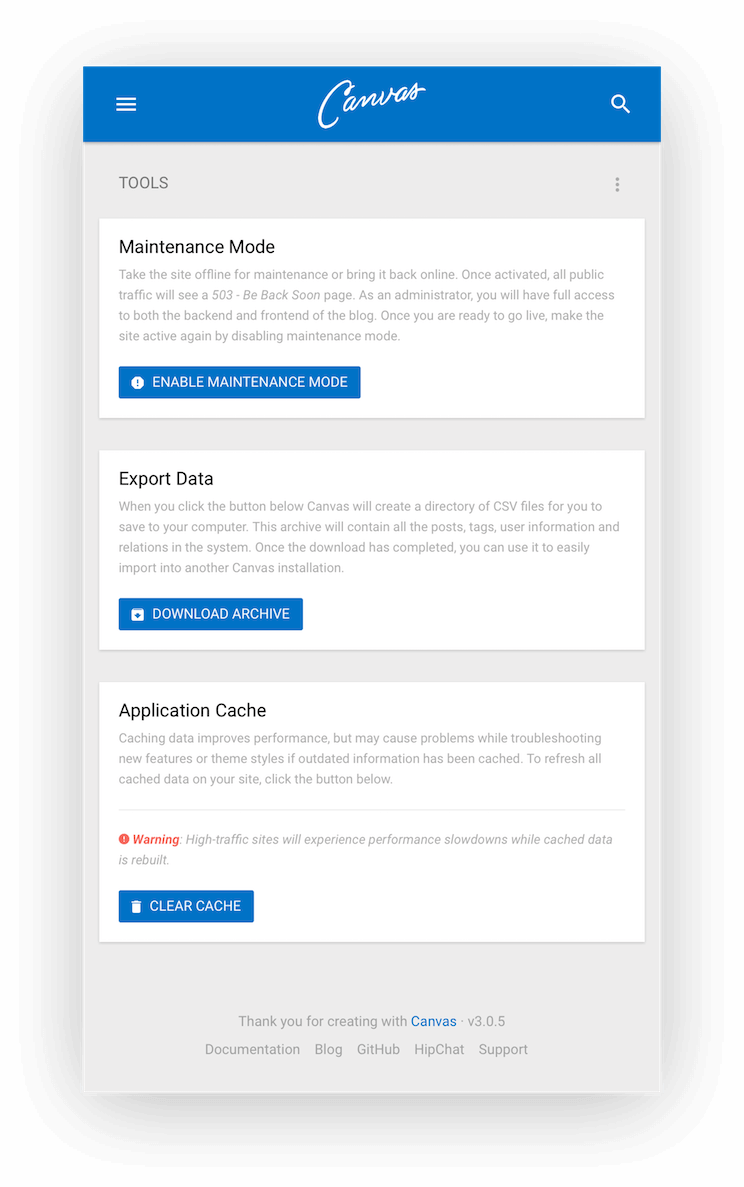
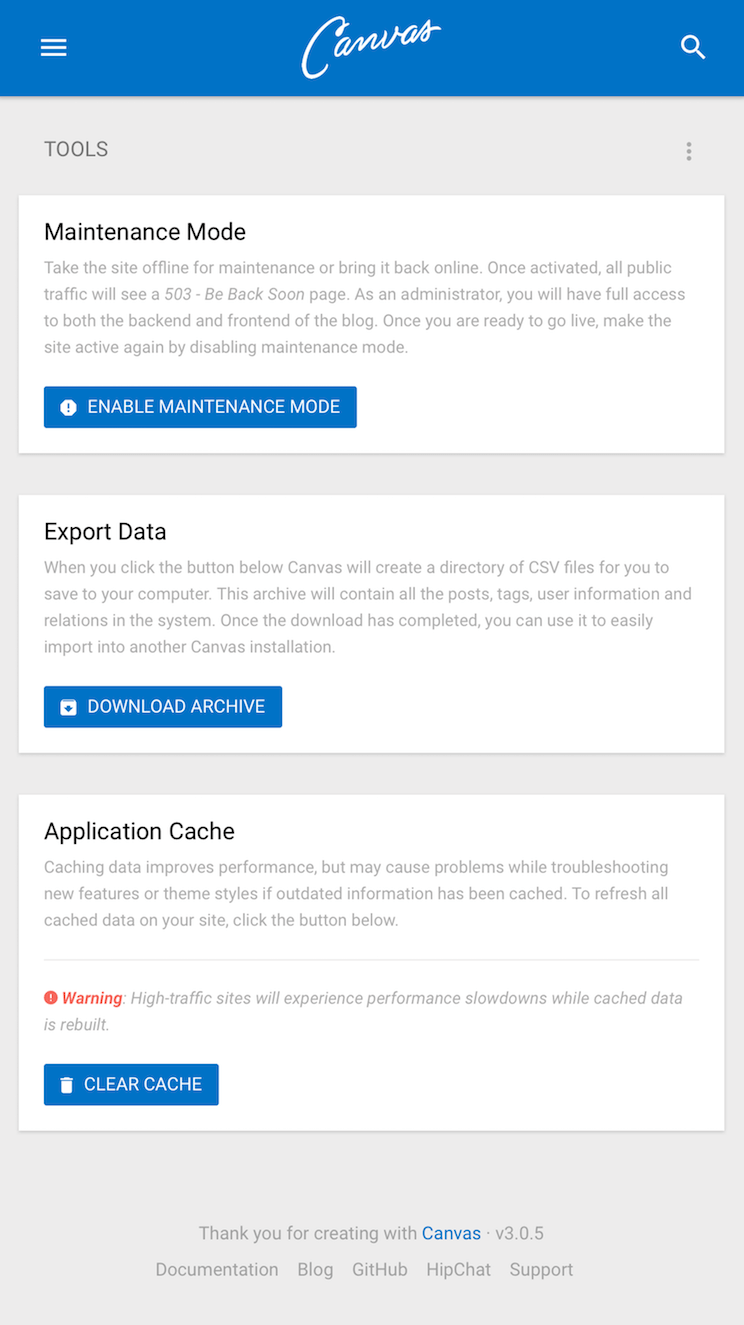
:ambulance: Fixed presentation image shadows

diff --git a/resources/views/site/partials/2-presentation.blade.php b/resources/views/site/partials/2-presentation.blade.php
@@ -12,9 +12,9 @@
         </div>
         <div class="row">
             <div class="col-md-12 presentation">
-                <img class="img-responsive first" width="372px" src="https://canvas-47a7.kxcdn.com/assets/img/presentation/admin-tools.png" alt="Tools Page">
-                <img class="img-responsive second wow" width="459px" src="https://canvas-47a7.kxcdn.com/assets/img/presentation/admin-nav.png" alt="Home Page Navigation">
-                <img class="img-responsive third" width="372px" src="https://canvas-47a7.kxcdn.com/assets/img/presentation/admin-post.png" alt="Post Editing Page">
+                <img class="img-responsive first card-raised" width="372" src="{{ asset('assets/img/presentation/admin-tools.png') }}" alt="Tools Page">
+                <img class="img-responsive second card-raised" width="459" src="{{ asset('assets/img/presentation/admin-nav.png') }}" alt="Home Page Navigation">
+                <img class="img-responsive third card-raised" width="372" src="{{ asset('assets/img/presentation/admin-post.png') }}" alt="Post Editing Page">
             </div>
         </div>
     </div>
